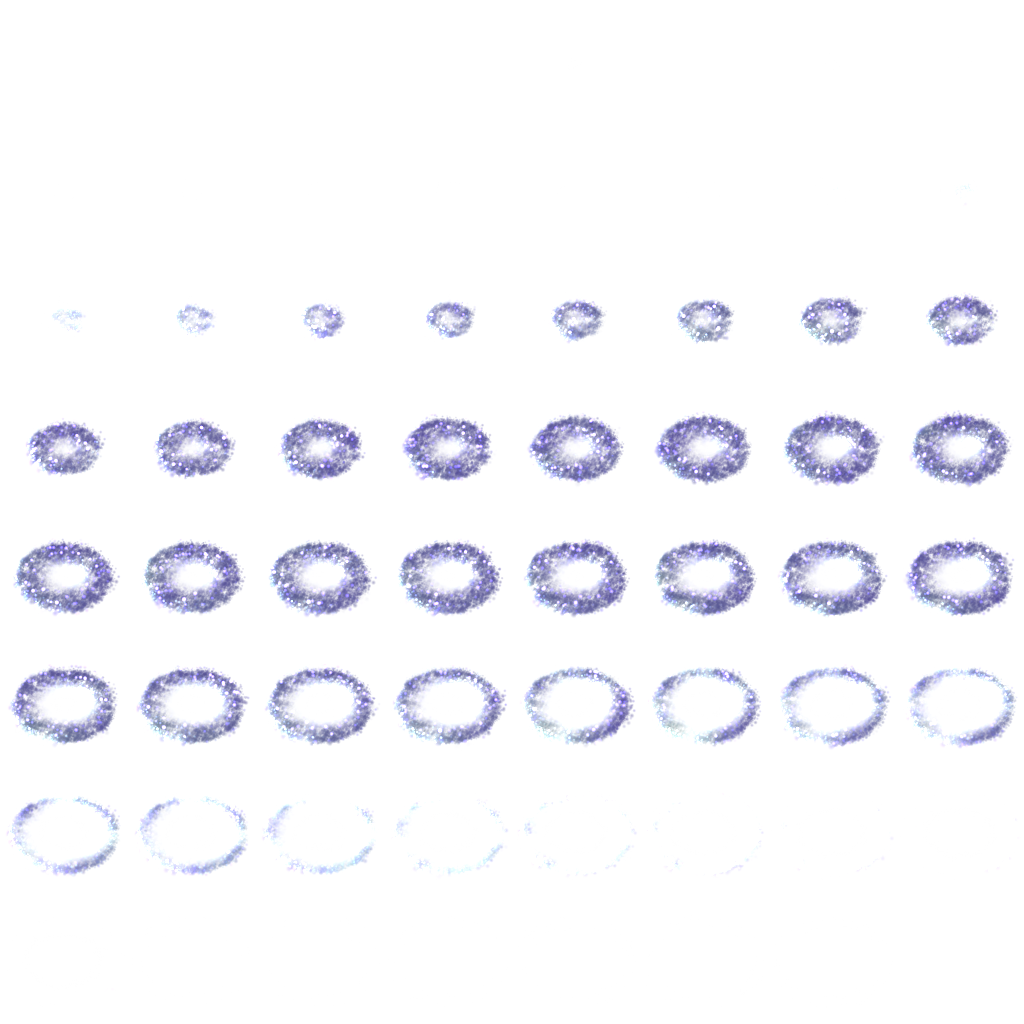
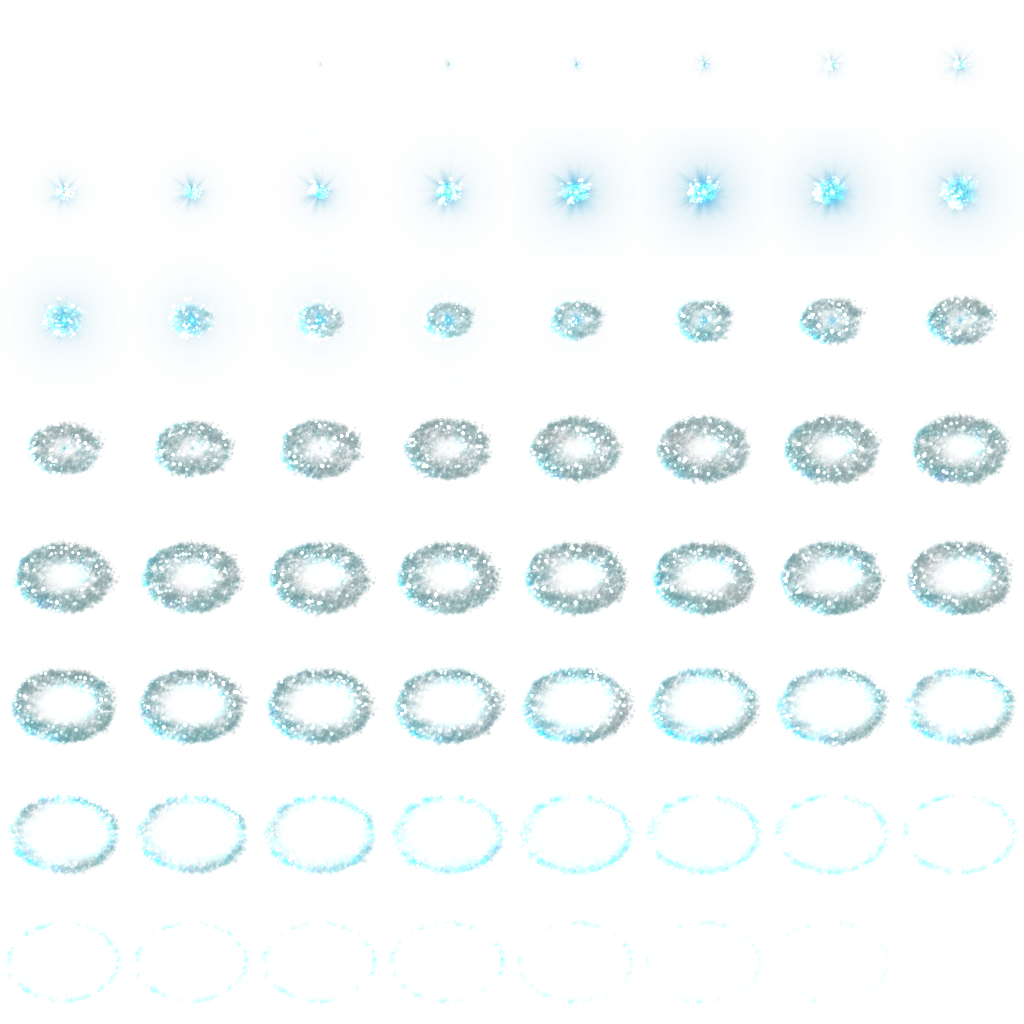
level up

diff --git a/core/src/com/ph/rpg/objects/LEvelUpObject.java b/core/src/com/ph/rpg/objects/LEvelUpObject.java
@@ -1,0 +1,35 @@
+package com.ph.rpg.objects;
+
+import com.badlogic.gdx.graphics.g2d.SpriteBatch;
+import com.badlogic.gdx.math.Vector2;
+import com.ph.rpg.utils.ClassFileManager;
+
+/**
+ * Created by Jock on 23.05.2016.
+ */
+public class LevelUpObject extends AnimatedObject {
+    private float startTime = 0;
+    private boolean active = false;
+
+    public LevelUpObject() {
+        super(ClassFileManager.LevelUpXML);
+    }
+
+    @Override
+    public void draw(SpriteBatch spriteBatch, float stateTime) {
+        if (active) {
+            setCoord(new Vector2(MovingObject.mainObject.getPosition()));
+            currentCoord.add(0,-50);
+            super.draw(spriteBatch, stateTime- startTime);
+            System.out.println(stateTime+" "+8*8*8/1000.);
+            if(stateTime-startTime>8*8*8/1000.){
+                active = false;
+            }
+        }
+    }
+
+    public void activate(float stateTime){
+        startTime = stateTime;
+        active = true;
+    }
+}

diff --git a/core/src/com/ph/rpg/objects/MageObject.java b/core/src/com/ph/rpg/objects/MageObject.java
@@ -1,8 +1,8 @@
 package com.ph.rpg.objects;
 
 import com.badlogic.gdx.graphics.g2d.SpriteBatch;
+import com.badlogic.gdx.math.Vector2;
 import com.ph.rpg.utils.ClassFileManager;
-import com.ph.rpg.objects.MovingObject;
 
 /**
  * Created by Hamish on 2016-05-21.
@@ -10,6 +10,7 @@ import com.ph.rpg.objects.MovingObject;
 public class MageObject extends MovingObject {
 
     private static boolean hasFocus = true;
+    private static AnimatedObject levelUp = new LevelUpObject();
 
     public static boolean hasFocus() {
         return hasFocus;
@@ -25,6 +26,8 @@ public class MageObject extends MovingObject {
         } else if (currentCoord.x < getDestination().x && facingLeft) {
             facingLeft = false;
         }
+        levelUp.draw(spriteBatch,stateTime);
+
         super.draw(spriteBatch, stateTime);
     }
 

diff --git a/core/src/com/ph/rpg/objects/DrawableObject.java b/core/src/com/ph/rpg/objects/DrawableObject.java
@@ -18,15 +18,7 @@ public class DrawableObject implements Comparable<DrawableObject> {
         this.currentCoord = currentCoord;
     }
     public DrawableObject(String imagePath) {
-        XmlReader reader = new XmlReader();
         System.out.println("DrawableObject created: " + imagePath);
-        texture = new Texture(Gdx.files.internal(imagePath));
-    }
-
-    public DrawableObject(String imagePath, Vector2 currentCoord) {
-        XmlReader reader = new XmlReader();
-        System.out.println("DrawableObject created: " + imagePath);
-        this.currentCoord = currentCoord;
         texture = new Texture(Gdx.files.internal(imagePath));
     }
 
